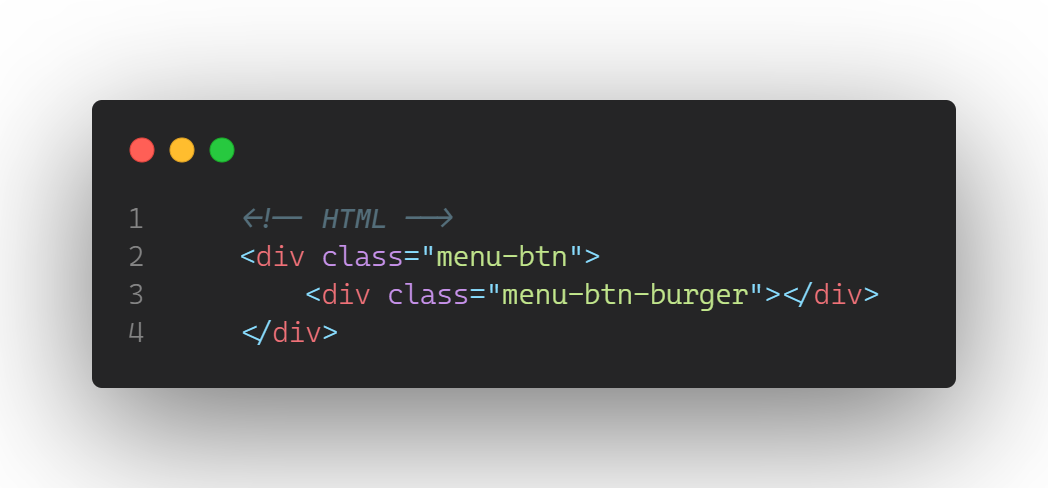
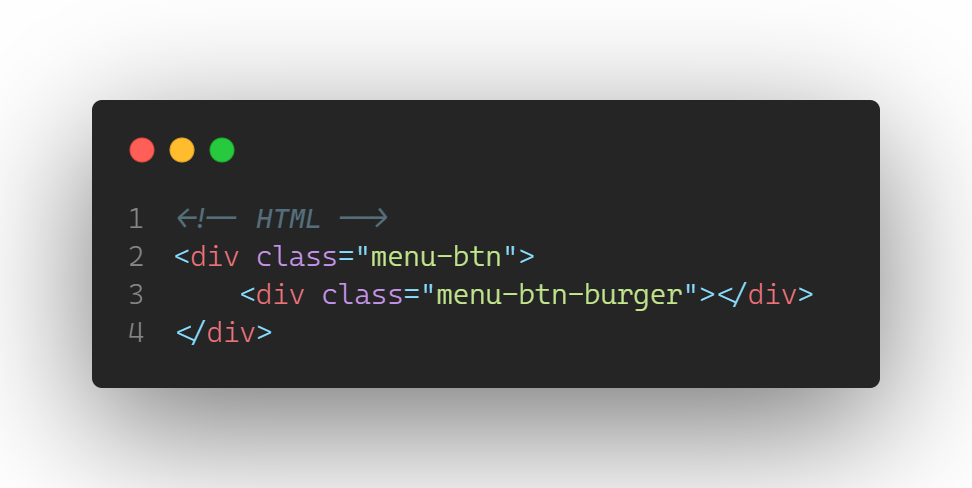
menu hamburguesa

diff --git a/componentes/CSS/css_007.html b/componentes/CSS/css_007.html
@@ -75,7 +75,7 @@
 
     <!-- CLIPBOARD -->
     <pre id="html-code" class="d-none">
-        <div class="menu-btn">\<div class="menu-btn-burger"></div>\</div>
+        <div class="menu-btn"><div class="menu-btn-burger"></div></div>
     </pre>
     <pre id="css-code" class="d-none">
         /* Botón hamburguesa */
@@ -137,7 +137,6 @@
     }
 });
     </pre>
-
 
     <script src="../../styles/js/scripts.js"></script>
     <script src="../../styles/js/web-components/wc-header.js"></script>

diff --git a/styles/js/scripts.js b/styles/js/scripts.js
@@ -30,7 +30,6 @@ function copiarAlPortapapeles(id_elemento) {
   document.body.removeChild(aux);
 }
 
-
 const menuBtn = document.querySelector(".menu-btn");
 let menuOpen = false;
 menuBtn.addEventListener("click", () => {
